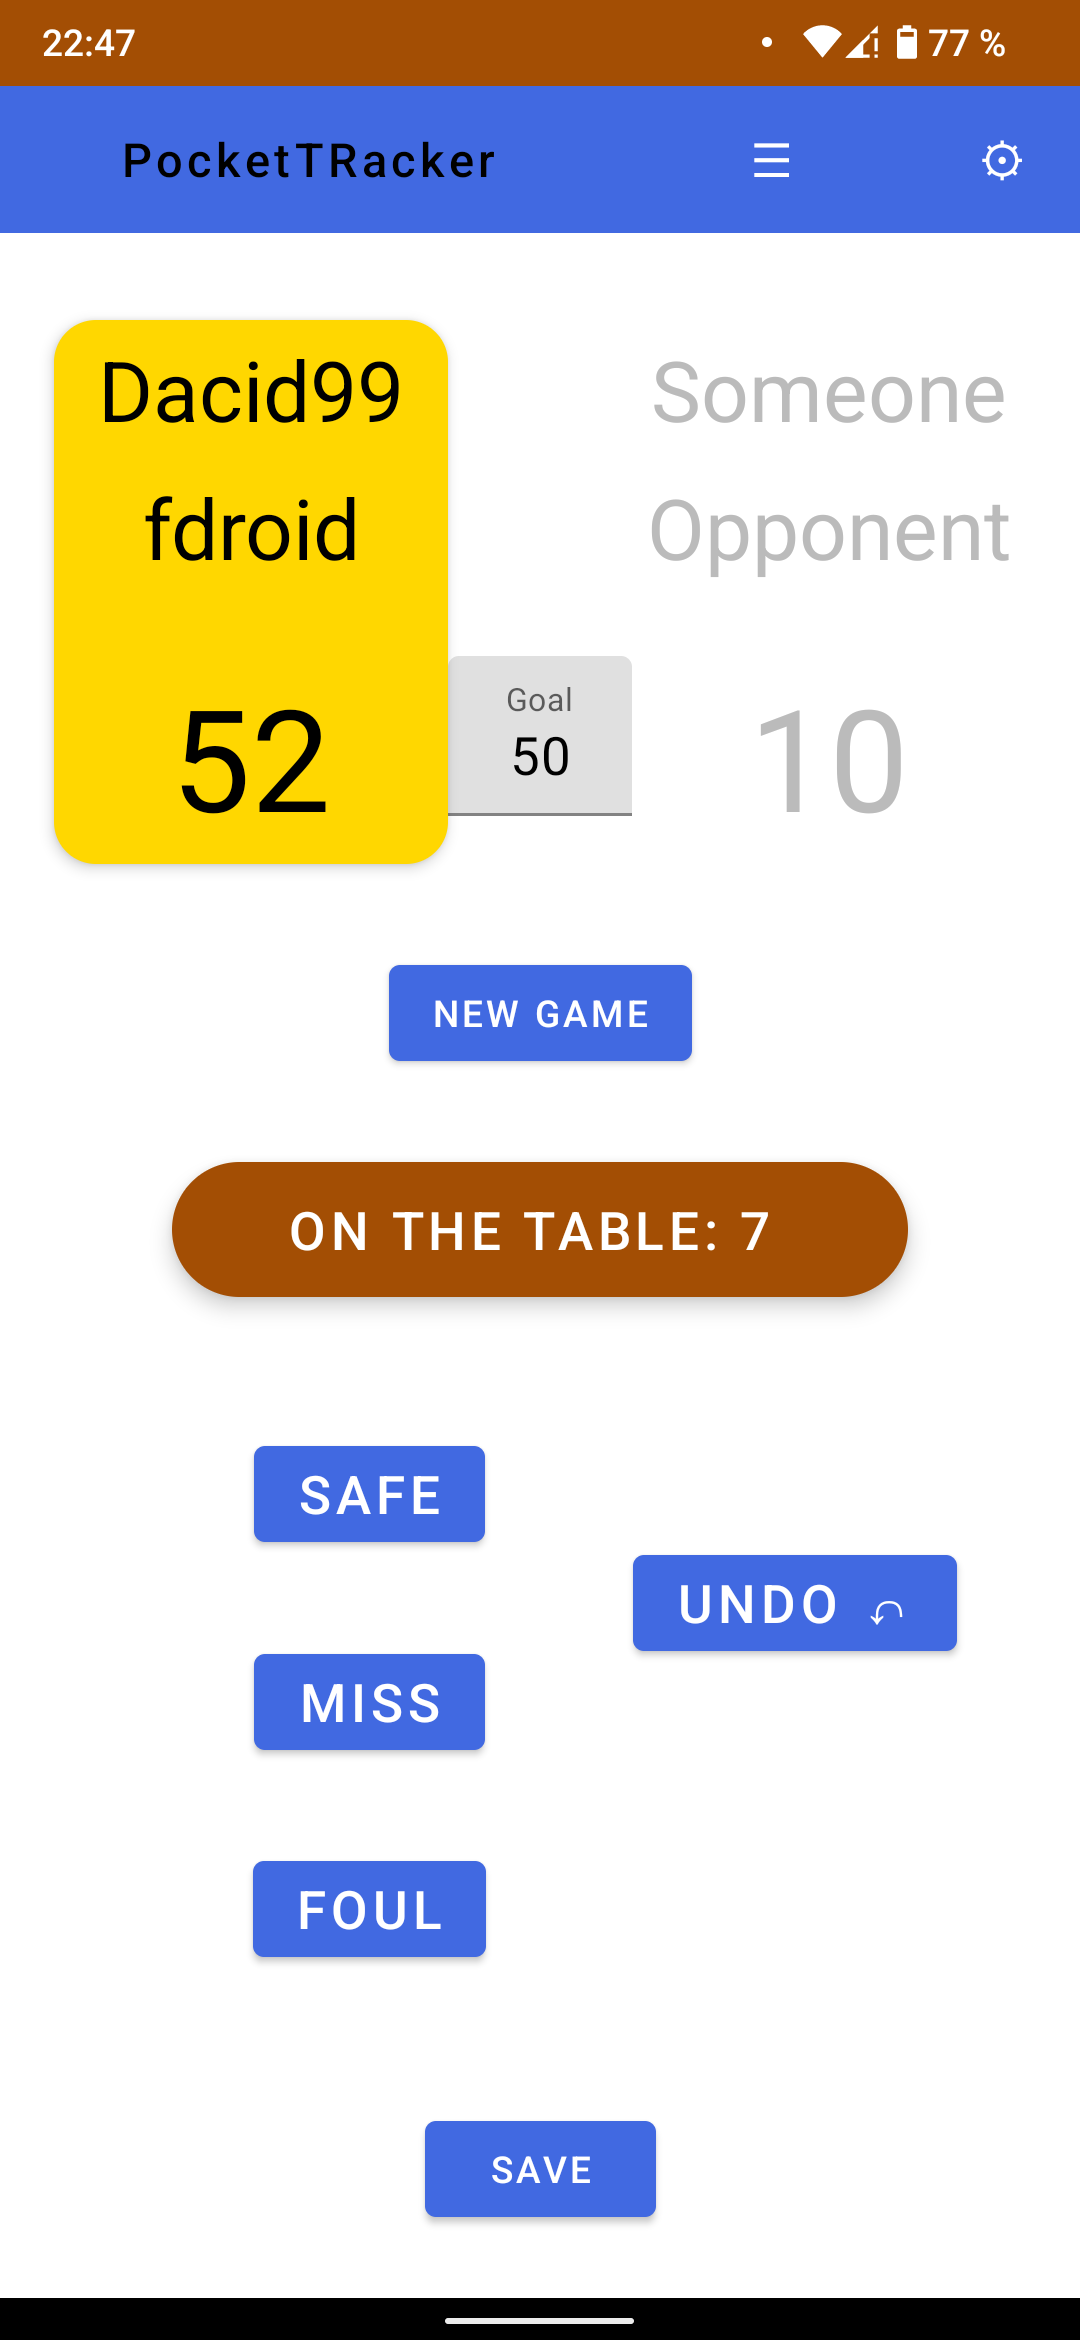
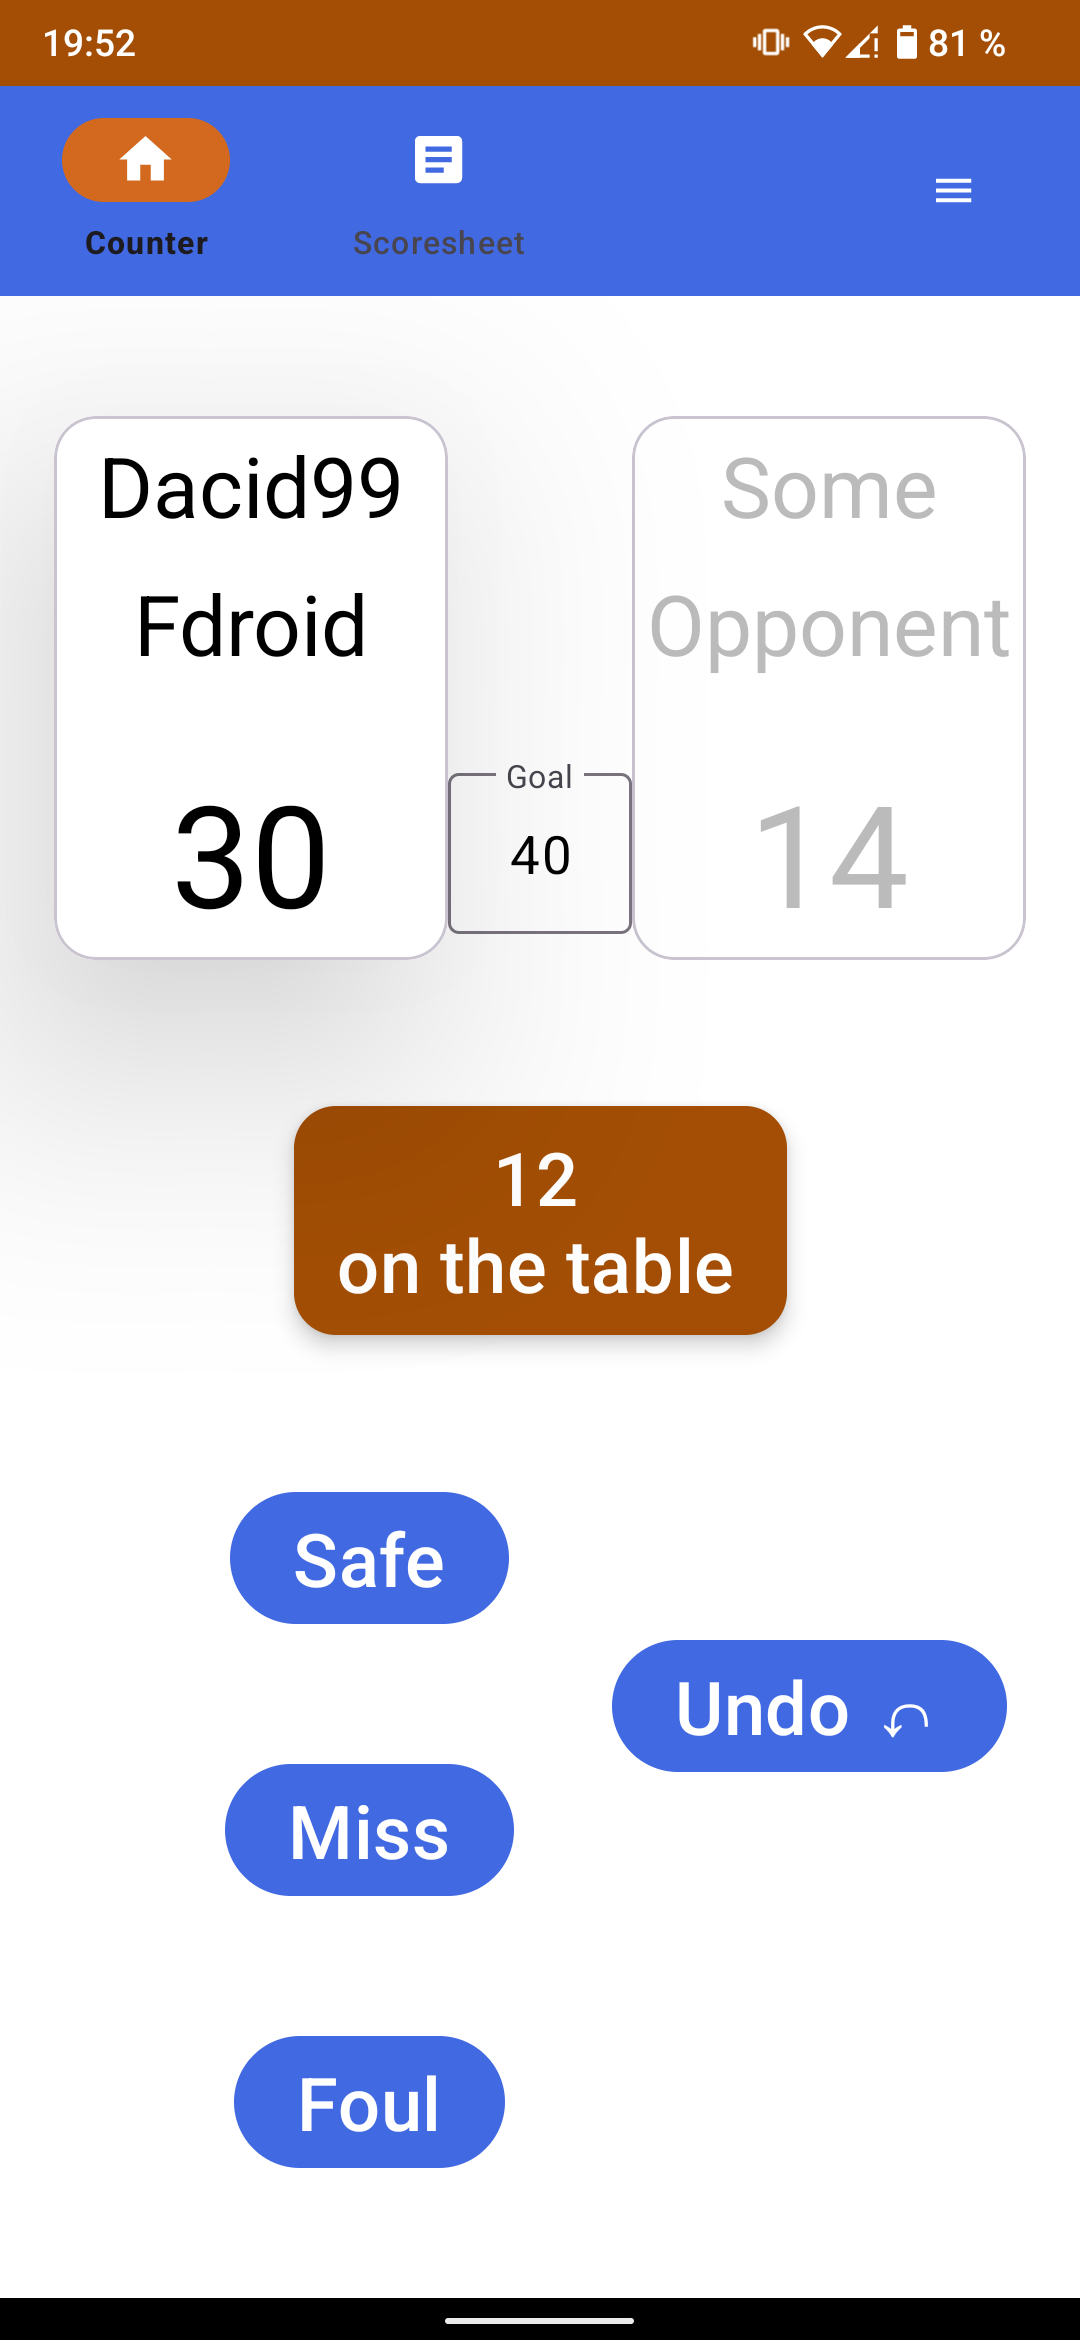
metadata for new release

diff --git a/Readme.md b/Readme.md
@@ -7,7 +7,10 @@ A pool player myself, I was always annoyed by writing the score sheet for straig
 So here is a digital tool to get rid of this paperwork! 
 It automatically keeps tabs on the scores. All you have to do is enter the number of balls after every turn and why the turn ended.
 
-*This is just the first basic version, I have a lot of [additional features I plan on implementing](Ideas.md). Help is always welcome of course.*
+Apart from just taking care of the math, the app also produces a full scoresheet and a game analysis with graphics!
+If you want to continue your games later (or want the data as a memory), you can save and load them.
+
+*I have a lot of [additional features I plan on implementing](Ideas.md). Help is always welcome of course.*
 
 [<img src="https://fdroid.gitlab.io/artwork/badge/get-it-on.png"
      alt="Get it on F-Droid"

diff --git a/Ideas.md b/Ideas.md
@@ -14,11 +14,11 @@
 - settings for toggling options like club on/off
 - remember players via defaults and autocomplete
 - AOD feature
-
+- statistics for players and profiles with plots
+- scoresheet with coloring of highest run etc
+- 
 # Future features
 - remember players via profiles
-- extensive statistics for players and profiles with plots
-- extended scoresheet with coloring of highest run etc
 - editing of scores in scoresheet
 - option of tracking by every pot
 - snookertracker in same app

diff --git a/TODO.md b/TODO.md
@@ -11,7 +11,3 @@
 - introduce playernumbers as static constants of players for readability and a comprehensive function to determine turnplayer instead of % operations
 - tablet layouts
 - explainers
-
-
-for new release:
-- new screenshots
